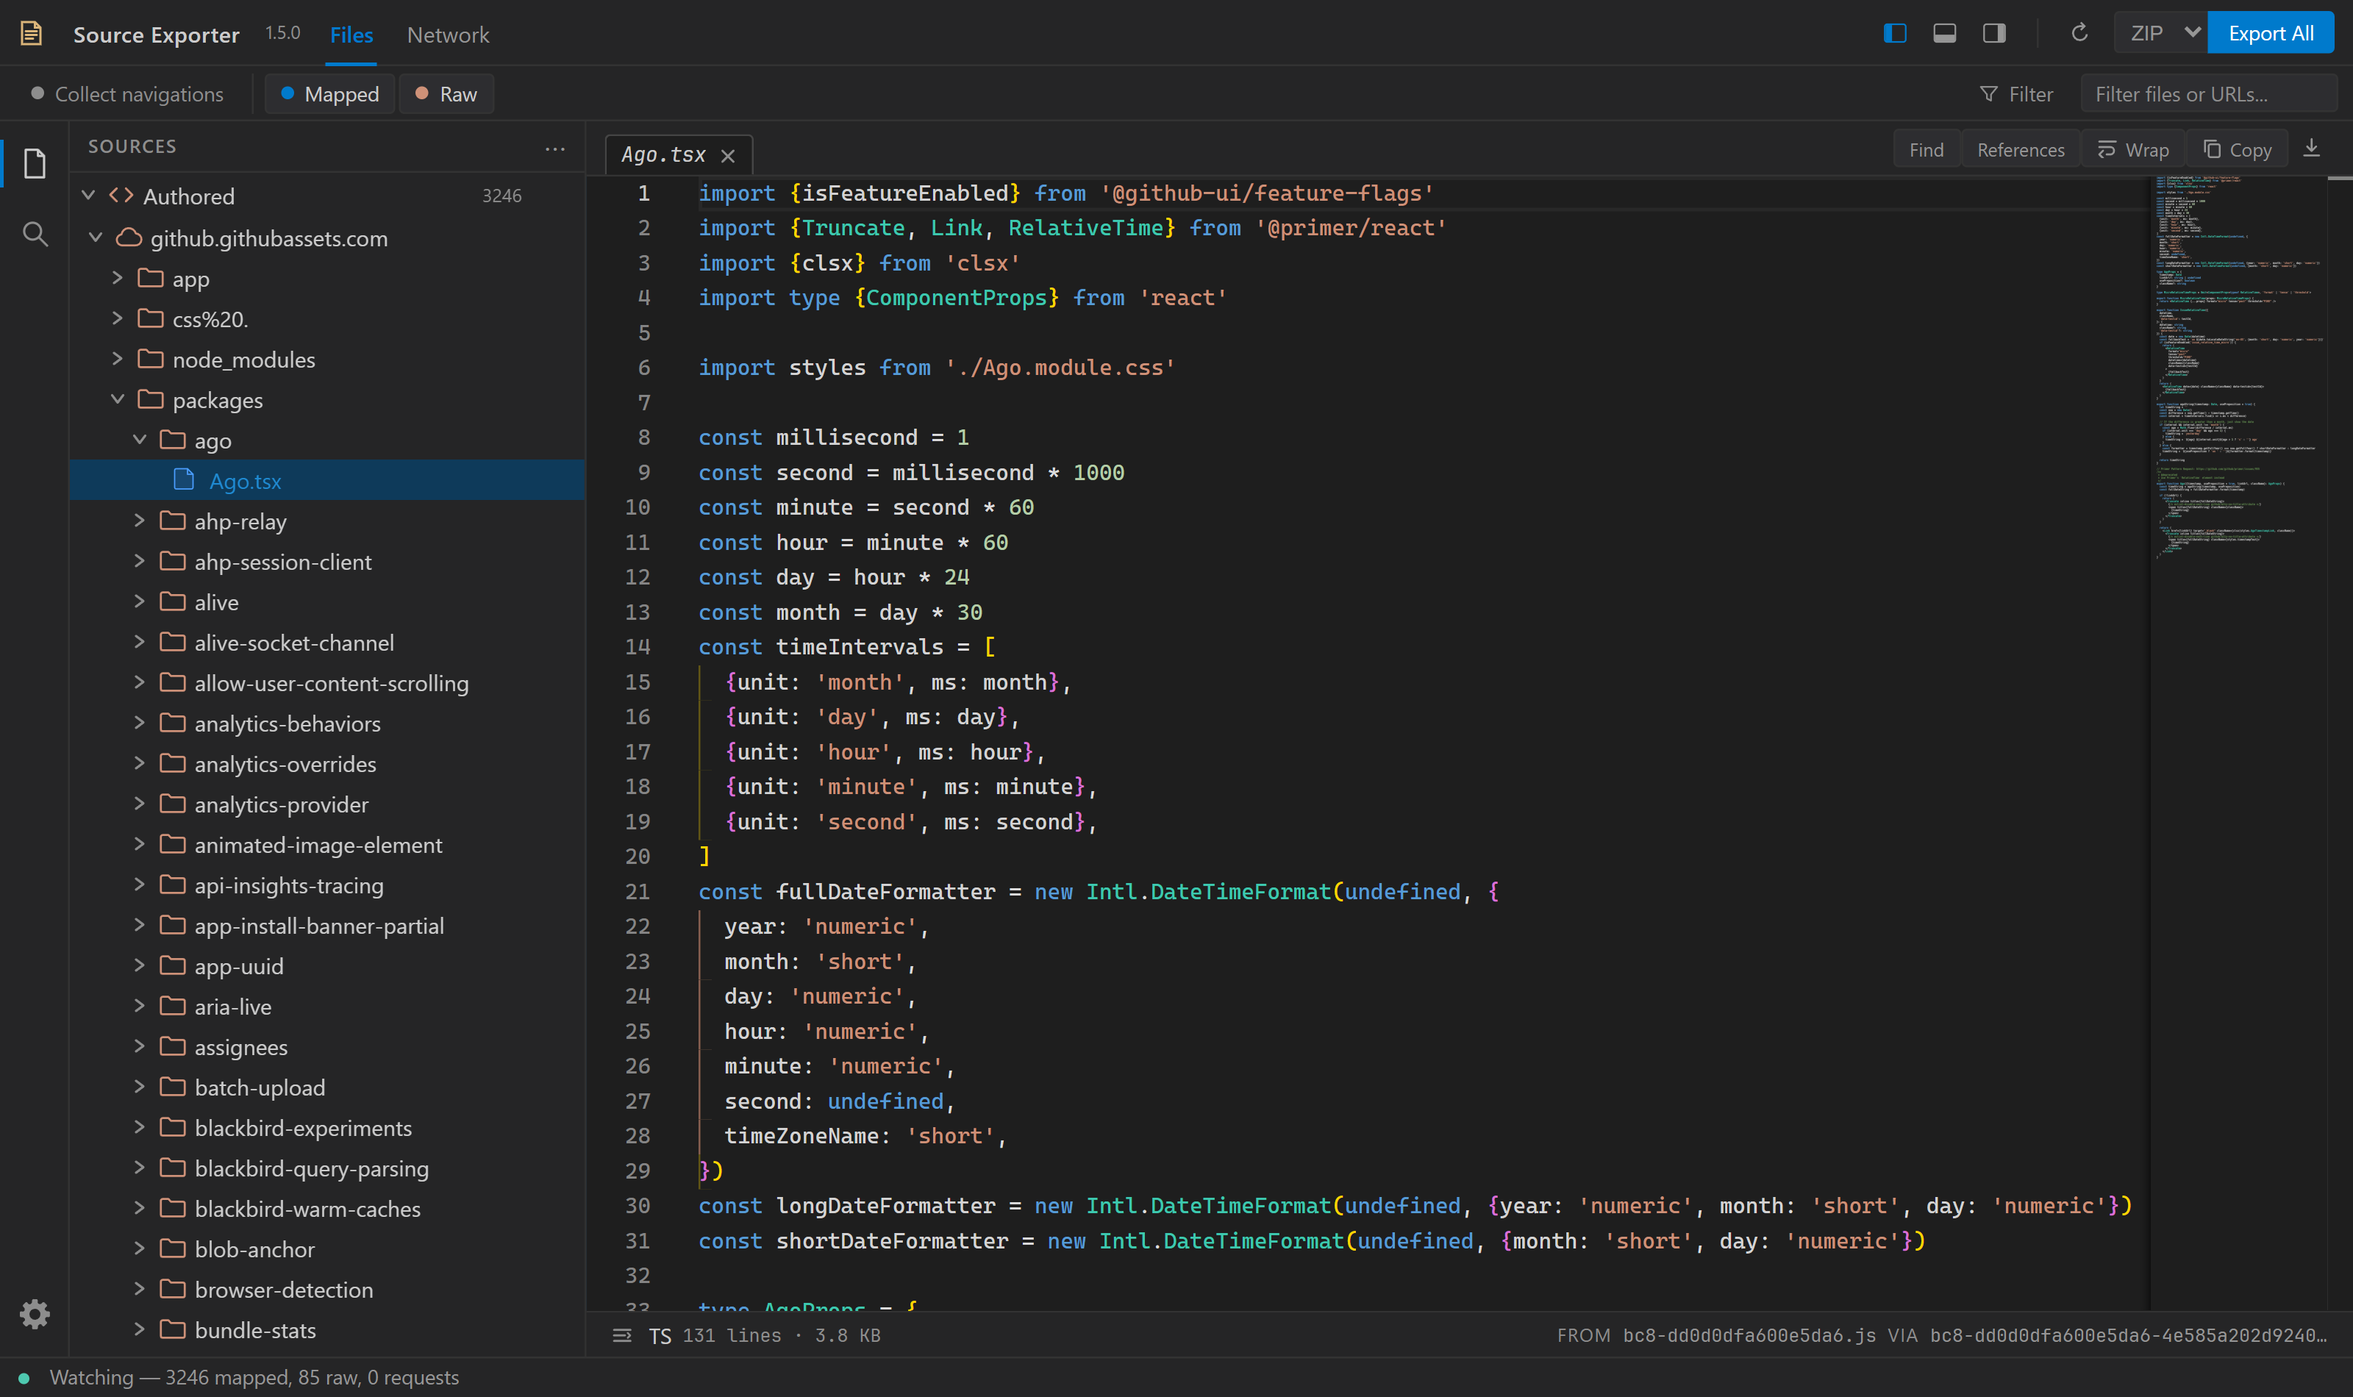
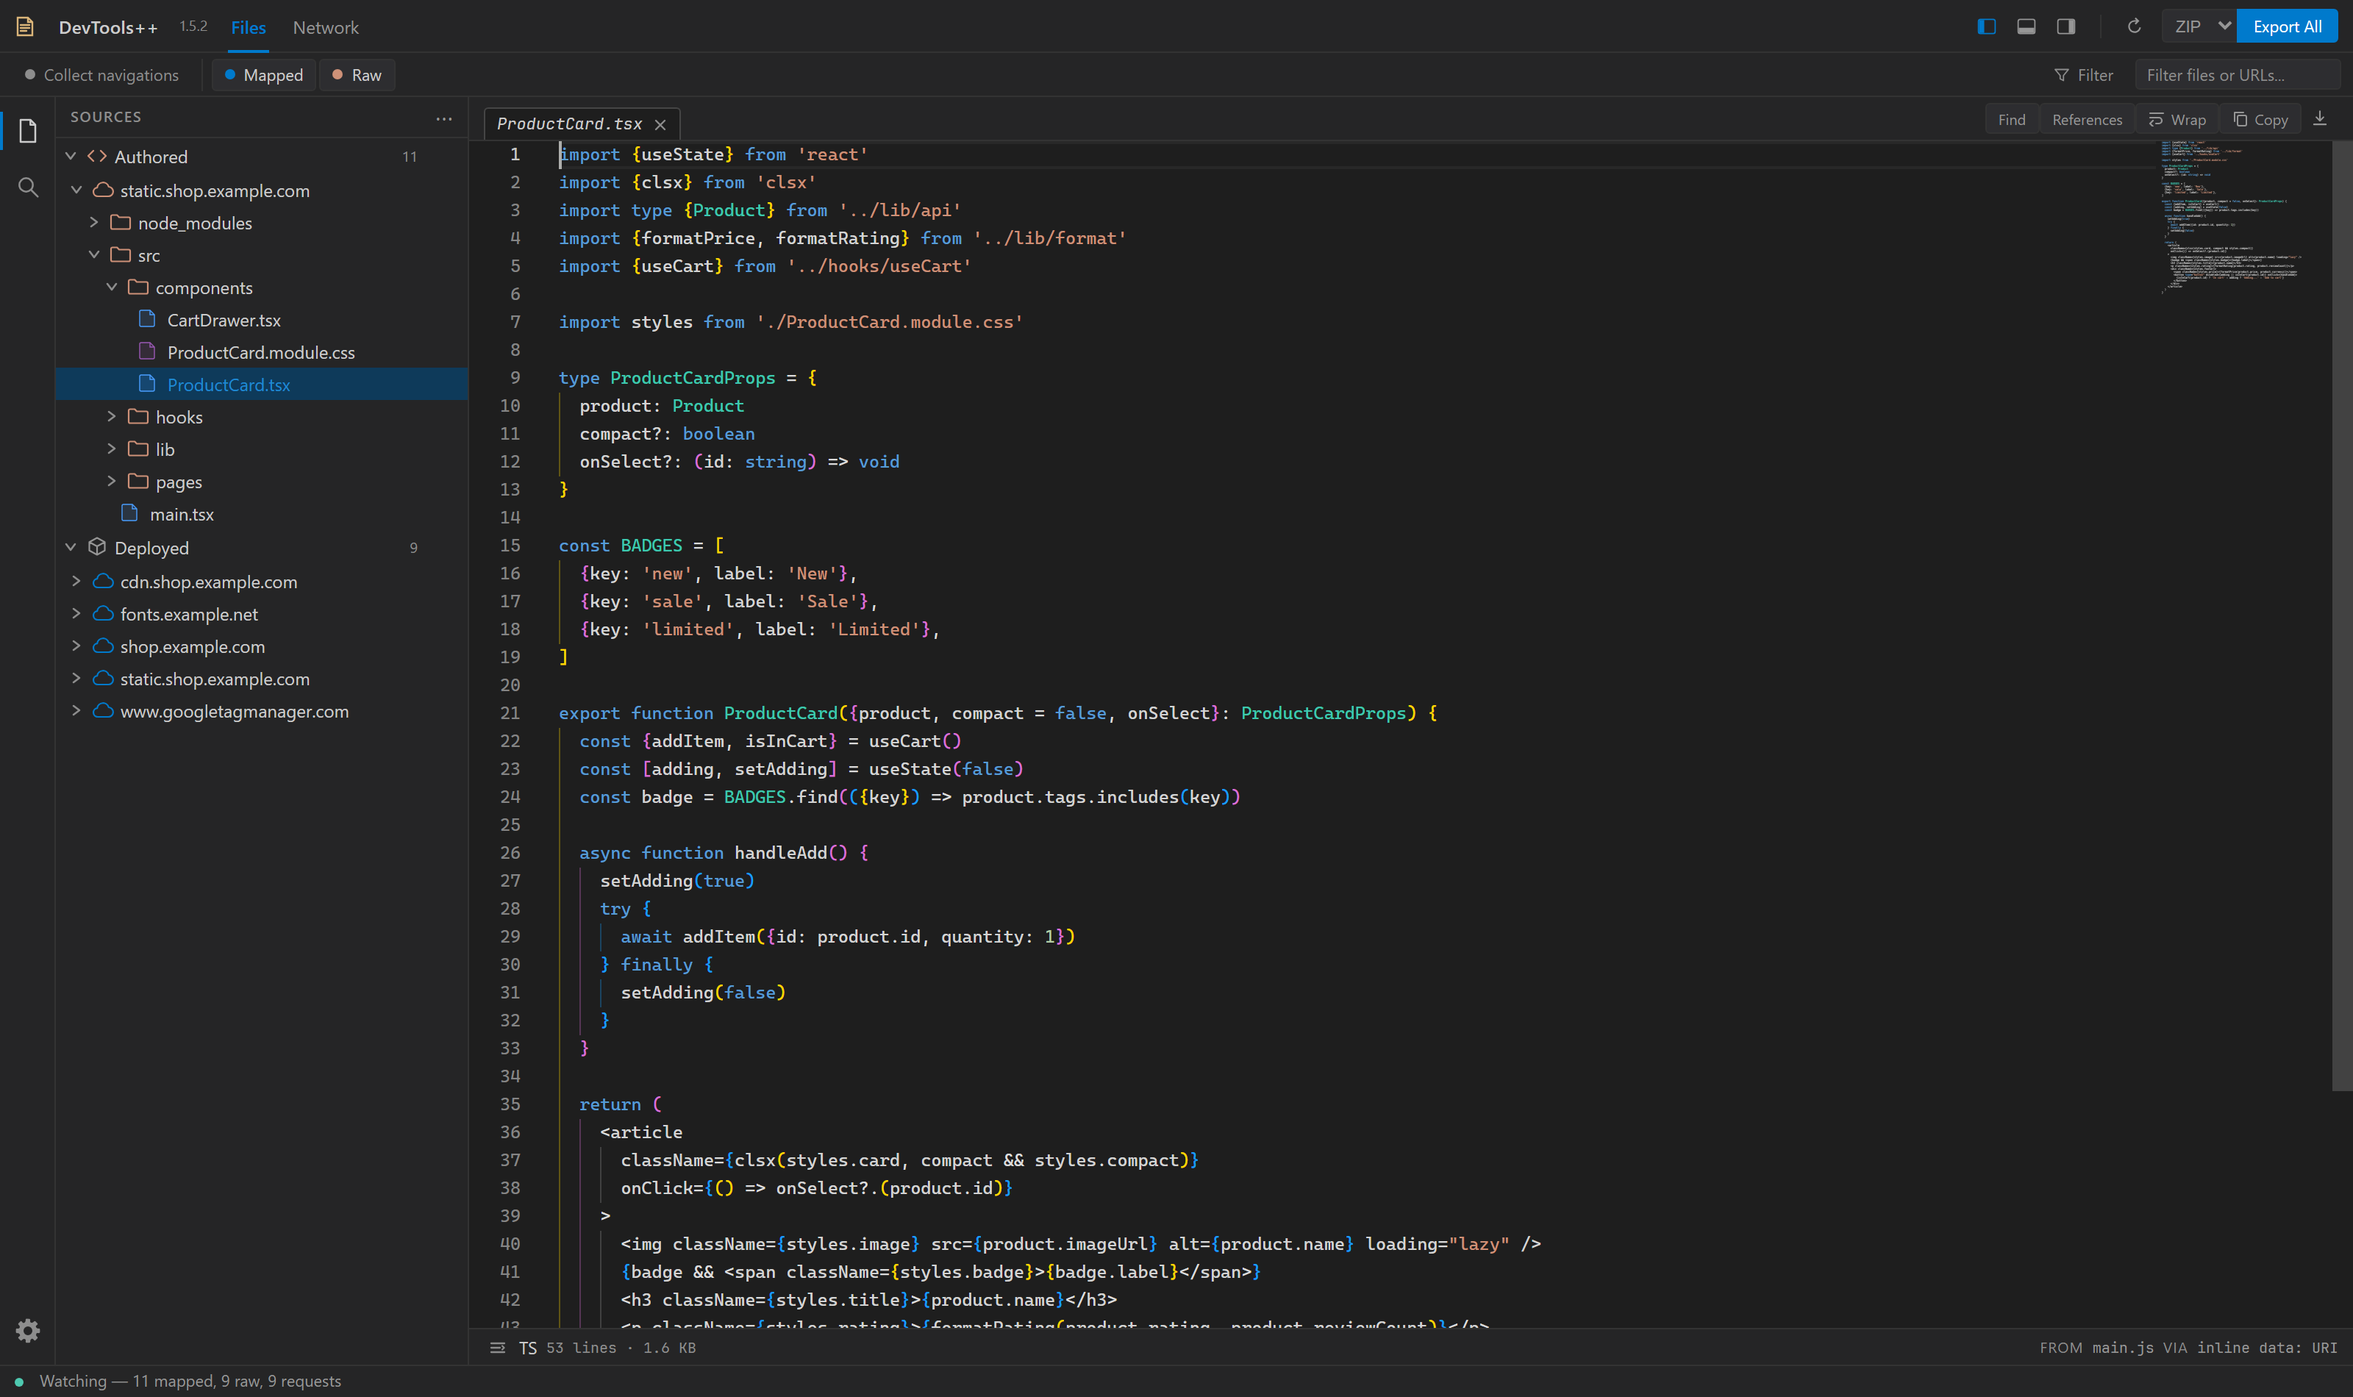
feat(panel): rebrand extension to DevTools++

diff --git a/src/devtools/js/devtools.js b/src/devtools/js/devtools.js
@@ -1,36 +1,31 @@
-// DevTools page: registers the Source Exporter panel and tells the panel page
+// DevTools page: registers the DevTools++ panel and tells the panel page
 // when it is shown or hidden, so it only does capture work while visible.
 
-chrome.devtools.panels.create(
-  "Source Exporter",
-  "icons/icon16.png",
-  "panel/panel.html",
-  (panel) => {
-    let activePanelWindow = null;
-    // Whether the panel is visible, so a late PANEL_READY gets the PANEL_SHOWN it missed.
-    let shown = false;
-    const post = (type) => {
-      try {
-        activePanelWindow?.postMessage({ type }, location.origin);
-      } catch (_) {
-        // The panel page may not be ready yet or may already be gone.
-      }
-    };
-    panel.onShown.addListener((shownWindow) => {
-      activePanelWindow = shownWindow;
-      shown = true;
-      post("PANEL_SHOWN");
-    });
-    panel.onHidden.addListener(() => {
-      shown = false;
-      post("PANEL_HIDDEN");
-    });
-    // Sent by the panel page once its capture script has run. Every DevTools page receives
-    // it, so only answer for this inspected tab.
-    chrome.runtime.onMessage.addListener((message) => {
-      if (message?.type !== "PANEL_READY") return;
-      if (message.tabId !== chrome.devtools.inspectedWindow.tabId) return;
-      if (shown) post("PANEL_SHOWN");
-    });
-  }
-);
+chrome.devtools.panels.create("DevTools++", "icons/icon16.png", "panel/panel.html", (panel) => {
+  let activePanelWindow = null;
+  // Whether the panel is visible, so a late PANEL_READY gets the PANEL_SHOWN it missed.
+  let shown = false;
+  const post = (type) => {
+    try {
+      activePanelWindow?.postMessage({ type }, location.origin);
+    } catch (_) {
+      // The panel page may not be ready yet or may already be gone.
+    }
+  };
+  panel.onShown.addListener((shownWindow) => {
+    activePanelWindow = shownWindow;
+    shown = true;
+    post("PANEL_SHOWN");
+  });
+  panel.onHidden.addListener(() => {
+    shown = false;
+    post("PANEL_HIDDEN");
+  });
+  // Sent by the panel page once its capture script has run. Every DevTools page receives
+  // it, so only answer for this inspected tab.
+  chrome.runtime.onMessage.addListener((message) => {
+    if (message?.type !== "PANEL_READY") return;
+    if (message.tabId !== chrome.devtools.inspectedWindow.tabId) return;
+    if (shown) post("PANEL_SHOWN");
+  });
+});

diff --git a/src/panel/js/settings/editor-settings.js b/src/panel/js/settings/editor-settings.js
@@ -1,6 +1,6 @@
 "use strict";
 
-// Settings window: Source Exporter's own settings (AppSettings) followed by every Monaco editor
+// Settings window: DevTools++'s own settings (AppSettings) followed by every Monaco editor
 // option, generated from Monaco's EditorOptions schema. Also owns the floating window and the
 // Monaco JSON overrides view. fontFamily, fontSize and smoothScrolling are left out of the
 // Monaco list because the Appearance section owns them.
@@ -136,7 +136,7 @@ window.EditorSettingsPanel = (() => {
     try {
       editorRef.updateOptions({ [entry.optionName]: setPath(entry.path, value) });
     } catch (error) {
-      console.warn(`Source Exporter: could not apply ${entry.dottedKey}`, error);
+      console.warn(`DevTools++: could not apply ${entry.dottedKey}`, error);
     }
   }
 
@@ -428,7 +428,7 @@ window.EditorSettingsPanel = (() => {
       section.appendChild(heading);
       for (const def of defs) section.appendChild(renderRow(def));
       body.appendChild(section);
-      navItems.push({ id: section.id, title, group: "Source Exporter" });
+      navItems.push({ id: section.id, title, group: "DevTools++" });
       shown += defs.length;
     }
 
@@ -541,10 +541,10 @@ window.EditorSettingsPanel = (() => {
   async function ensureJsonEditor() {
     if (jsonEditor || !monacoRef) return;
     const monaco = monacoRef;
-    const uri = monaco.Uri.parse("inmemory://source-exporter/editor-settings.json");
+    const uri = monaco.Uri.parse("inmemory://devtools-plus-plus/editor-settings.json");
     jsonSchemas = [
       {
-        uri: "http://source-exporter/editor-settings-schema.json",
+        uri: "http://devtools-plus-plus/editor-settings-schema.json",
         fileMatch: [uri.toString()],
         schema: jsonSchemaFromEntries(),
       },

diff --git a/src/panel/js/capture/capture.js b/src/panel/js/capture/capture.js
@@ -60,7 +60,7 @@ async function processScripts(scripts, resourceMap, gen, live) {
       try {
         await processScript(script, resourceMap, gen);
       } catch (error) {
-        console.warn(`Source Exporter: scanning ${script.url} failed`, error);
+        console.warn(`DevTools++: scanning ${script.url} failed`, error);
         if (gen === state.scanGeneration) scriptScanFailed(script.url);
       }
     }
@@ -236,7 +236,7 @@ network.onRequestFinished.addListener((request) => {
 
 // -- Panel visibility --
 // The panel page can exist while another DevTools tab is focused. Stay passive until
-// DevTools reports that Source Exporter is visible.
+// DevTools reports that DevTools++ is visible.
 
 // Returning to the panel only rescans, keeping tabs and edits. onNavigated is ignored while
 // hidden, so a page that reloaded or navigated meanwhile is detected here instead.

diff --git a/src/panel/js/workbench/export.js b/src/panel/js/workbench/export.js
@@ -101,7 +101,7 @@ async function exportItems(items, archiveName) {
           } else {
             prettyFailed++;
             const header = commentHeader(lang, [
-              "Source Exporter: pretty-format failed for this file.",
+              "DevTools++: pretty-format failed for this file.",
               "Reason: " + r.reason,
               "Falling back to original (un-formatted) content.",
             ]);
@@ -154,7 +154,7 @@ function makePlaceholder(path, entry) {
       ? "Failed to fetch original content."
       : "Original content was not available (no embedded source content and no successful fetch).";
   return [
-    "// Source Exporter placeholder",
+    "// DevTools++ placeholder",
     `// Path: ${path}`,
     `// URL:  ${url}`,
     `// ${reason}`,

diff --git a/src/panel/js/network/initiator.js b/src/panel/js/network/initiator.js
@@ -181,7 +181,7 @@ const RequestInitiator = (() => {
         resolveOpen(
           response?.isError
             ? `DevTools could not open ${target.url}.`
-            : `Opened ${target.url} in DevTools (outside Source Exporter).`
+            : `Opened ${target.url} in DevTools (outside DevTools++).`
         );
       const line = target.line ?? 0;
       const column = target.column ?? 0;
@@ -199,7 +199,7 @@ const RequestInitiator = (() => {
     return withTimeout(
       opened,
       DEVTOOLS_OPEN_TIMEOUT_MS,
-      `Asked DevTools to open ${target.url} (outside Source Exporter).`
+      `Asked DevTools to open ${target.url} (outside DevTools++).`
     );
   }
 

diff --git a/src/panel/popup.html b/src/panel/popup.html
@@ -2,16 +2,16 @@
 <html lang="en">
   <head>
     <meta charset="utf-8" />
-    <title>Source Exporter</title>
+    <title>DevTools++</title>
     <link rel="stylesheet" href="css/popup.css" />
   </head>
 
   <body>
-    <h1>Source Exporter</h1>
+    <h1>DevTools++</h1>
     <p>Export source-mapped files from DevTools.</p>
     <ol class="steps">
       <li>Open DevTools (F12)</li>
-      <li>Go to the <strong>Source Exporter</strong> tab</li>
+      <li>Go to the <strong>DevTools++</strong> tab</li>
       <li>Reload the page if scripts loaded before DevTools opened</li>
       <li>Right-click files or directories to export, or focus one and press Shift+F10</li>
     </ol>

diff --git a/src/panel/panel.html b/src/panel/panel.html
@@ -2,7 +2,7 @@
 <html lang="en">
   <head>
     <meta charset="utf-8" />
-    <title>Source Exporter</title>
+    <title>DevTools++</title>
     <script src="js/core/theme-boot.js"></script>
     <link rel="stylesheet" href="css/base.css" />
     <link rel="stylesheet" href="css/buttons.css" />
@@ -92,7 +92,7 @@
               stroke-linecap="round"
             />
           </svg>
-          <span id="title">Source Exporter</span>
+          <span id="title">DevTools++</span>
           <span id="version">{{version}}</span>
           <nav id="workspace-tabs" aria-label="Workspace">
             <button

diff --git a/docs/usage.md b/docs/usage.md
@@ -1,6 +1,6 @@
 # Capture and filtering
 
-Source Exporter collects files and completed requests from the inspected page while its DevTools panel is visible.
+DevTools++ collects files and completed requests from the inspected page while its DevTools panel is visible.
 
 ## Source groups
 
@@ -16,11 +16,11 @@ Enable **Collect navigations** to retain files while the inspected page reloads 
 
 Turning it off keeps the current collection; the next navigation returns to single-page capture. The refresh button always starts a fresh collection.
 
-Capture pauses while another DevTools tab is active. Reload the page with Source Exporter visible if scripts loaded before DevTools opened or while the panel was hidden.
+Capture pauses while another DevTools tab is active. Reload the page with DevTools++ visible if scripts loaded before DevTools opened or while the panel was hidden.
 
 ## Pause watching
 
-The dot at the left of the status bar shows whether Source Exporter is watching the page: green while it captures new files, requests, and navigations, hollow while paused. Click it, or right-click it and choose **Pause watching** or **Resume watching**, to toggle. Pausing keeps everything already captured. Resuming catches up with the page, as returning to the panel does, and the refresh button also resumes. The status text keeps the counts current without switching to scan messages; errors and finished [exports](exporting.md) replace it for a few seconds.
+The dot at the left of the status bar shows whether DevTools++ is watching the page: green while it captures new files, requests, and navigations, hollow while paused. Click it, or right-click it and choose **Pause watching** or **Resume watching**, to toggle. Pausing keeps everything already captured. Resuming catches up with the page, as returning to the panel does, and the refresh button also resumes. The status text keeps the counts current without switching to scan messages; errors and finished [exports](exporting.md) replace it for a few seconds.
 
 ## Filter and group files
 

diff --git a/README.md b/README.md
@@ -1,4 +1,4 @@
-# Source Exporter
+# DevTools++
 
 An alternative source and network workspace inside Chrome DevTools for debugging,
 reverse engineering, and inspecting web pages.
@@ -7,7 +7,7 @@ I built it because Chromium's DevTools was missing features I'd wanted for a whi
 starting with exporting files detected through source maps. I've tried to keep the
 familiar DevTools behavior first, then add new features and quality-of-life improvements.
 
-![Files workspace: GitHub's source-mapped Ago.tsx, reconstructed from production bundles, open in the editor](docs/images/files-editor.png)
+![DevTools++ reconstructing a simulated shop's ProductCard.tsx from a source map, open in the editor](docs/images/files-editor.png)
 
 ## Features
 
@@ -34,7 +34,7 @@ familiar DevTools behavior first, then add new features and quality-of-life impr
 
 ## Install
 
-1. Download and unzip [the latest build](https://github.com/stugmi/SourceExporter/releases/download/latest/source-exporter.zip).
+1. Download and unzip [the latest build](https://github.com/stugmi/SourceExporter/releases/download/latest/devtools-plus-plus.zip).
 2. Open `chrome://extensions` and enable **Developer mode**.
 3. Click **Load unpacked** and select the extracted folder.
 
@@ -42,7 +42,7 @@ To build from source, see [development](docs/development.md).
 
 ## Quick start
 
-1. Open DevTools on the page you want to inspect and select **Source Exporter**.
+1. Open DevTools on the page you want to inspect and select **DevTools++**.
 2. Reload the page if its scripts loaded before the panel was open.
 3. Select a file or request to inspect it, then use **Export All** to save the capture.
 

diff --git a/docs/network.md b/docs/network.md
@@ -56,7 +56,7 @@ Limits:
 
 ## Initiator
 
-The **Initiator** view shows the synchronous and async frames reported by DevTools. Selecting a frame opens its mapped original source in Source Exporter when a retained source map resolves, or the captured raw script at its generated position. If the file was not captured, the action can open native DevTools Sources instead; that fallback is labelled explicitly. Requests with no captured initiator show an unavailable message.
+The **Initiator** view shows the synchronous and async frames reported by DevTools. Selecting a frame opens its mapped original source in DevTools++ when a retained source map resolves, or the captured raw script at its generated position. If the file was not captured, the action can open native DevTools Sources instead; that fallback is labelled explicitly. Requests with no captured initiator show an unavailable message.
 
 Jumps to a frame, search result, or definition center the target line in the editor and briefly highlight it, so the location stays visible even with sticky scroll enabled.
 

diff --git a/docs/editor.md b/docs/editor.md
@@ -18,11 +18,11 @@ The left sidebar, bottom panel, and right sidebar can be toggled independently. 
 
 Choose a [color theme](settings.md#color-theme) in **Settings > Appearance**: VS Dark (default), DevTools Dark, Dark (Navy / Charcoal), VS Light, Light, and high contrast dark or light. The theme applies to the whole panel and the editor.
 
-![Dark (Navy / Charcoal) theme with GitHub's source-mapped Ago.tsx open](images/files-editor-navy.png)
+![Dark (Navy / Charcoal) theme with the simulated shop's source-mapped ProductCard.tsx open](images/files-editor-navy.png)
 
 ## Keyboard shortcuts
 
-Shortcuts apply while the Source Exporter panel has focus. Definitions live in [`keybinds.js`](../src/panel/js/core/keybinds.js).
+Shortcuts apply while the DevTools++ panel has focus. Definitions live in [`keybinds.js`](../src/panel/js/core/keybinds.js).
 
 | Keys                 | Action                                                                           |
 | -------------------- | -------------------------------------------------------------------------------- |

diff --git a/CHANGELOG.md b/CHANGELOG.md
@@ -1,5 +1,11 @@
 # Changelog
 
+## 1.5.2
+
+### Changes
+
+- Rename Source Exporter to **DevTools++** in the extension, panel, popup, settings, and documentation. Release downloads use `devtools-plus-plus.zip` and `devtools-plus-plus.crx`.
+
 ## 1.5.1
 
 ### Bug Fixes
